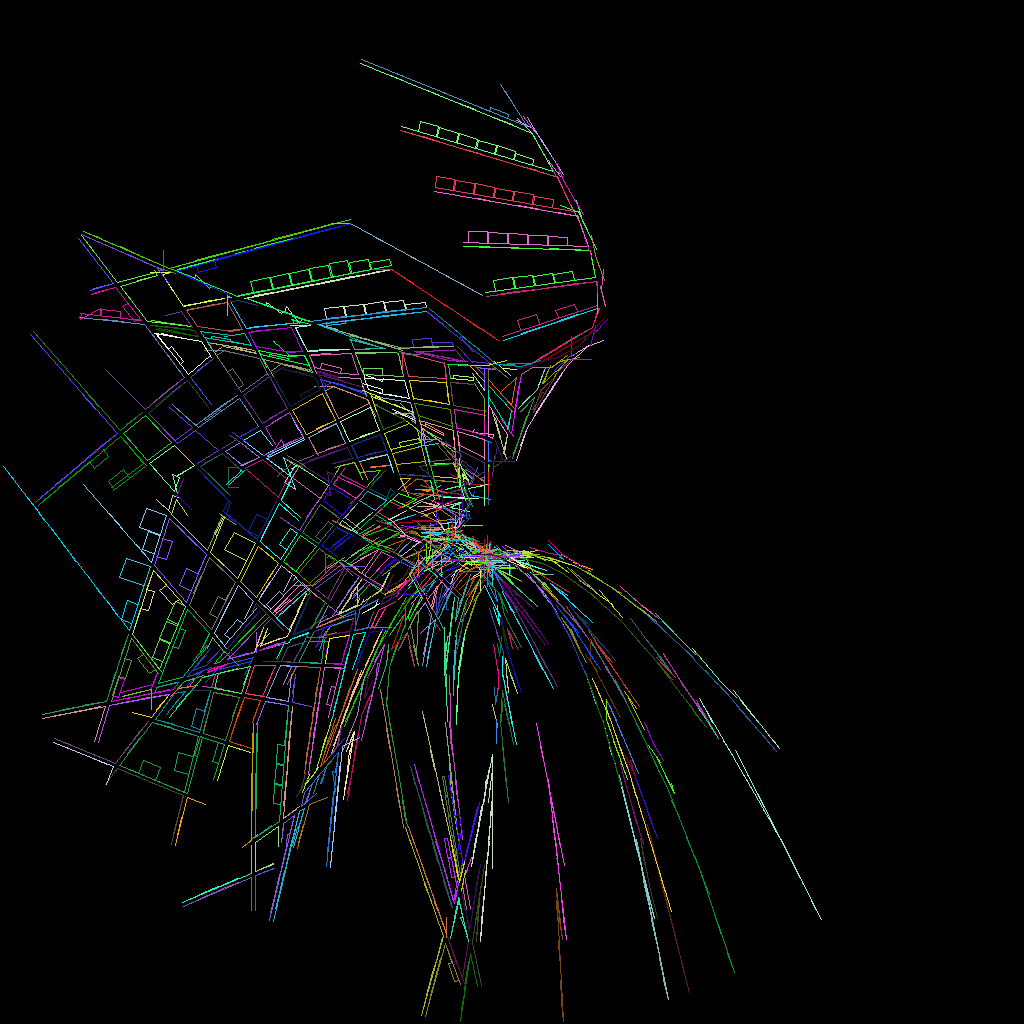
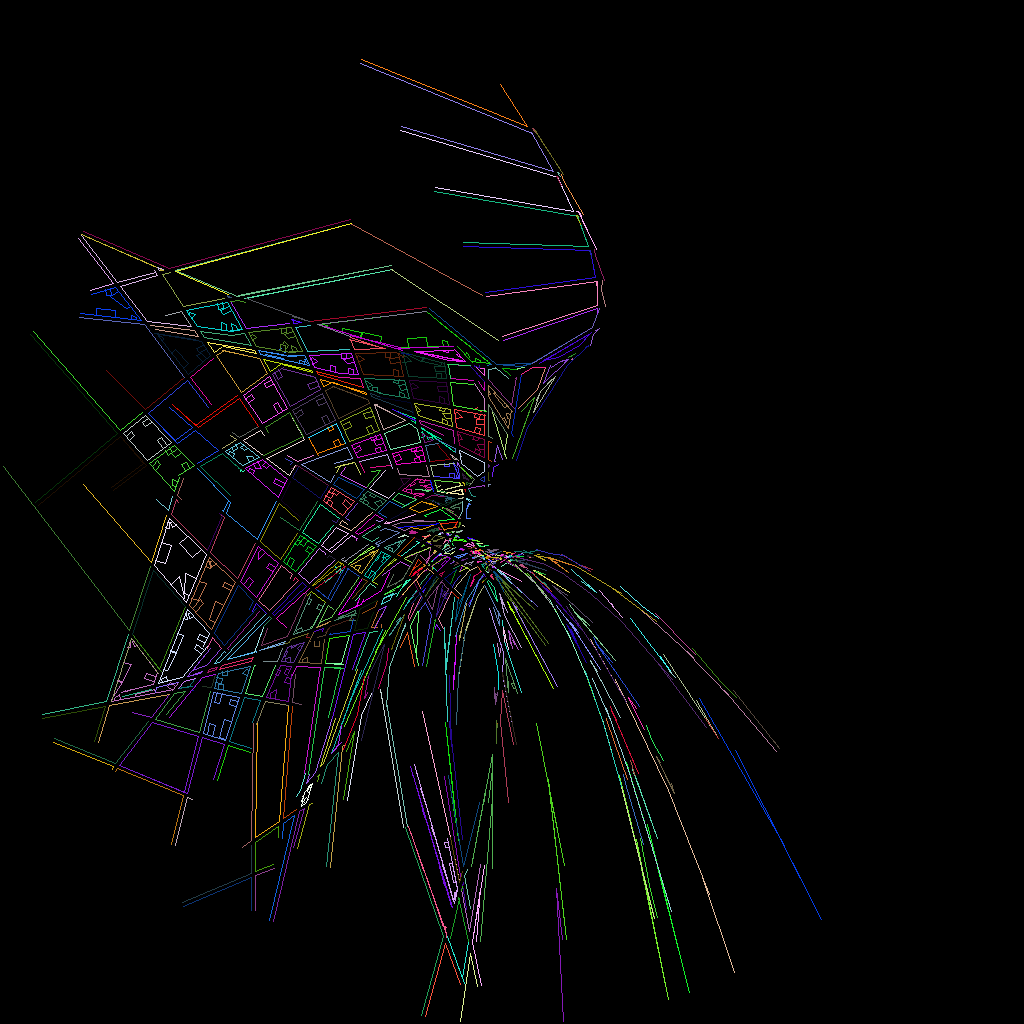
Lot population _slightly_ better

diff --git a/src/city_builder.js b/src/city_builder.js
@@ -153,93 +153,102 @@ const inside_lot = function(line, lot, edge_index) {
 exports.inside_lot = inside_lot;
 
 const add_building = function(lot_edges, edge_index, from, to) {
-  // let size = 20
-  const magic = 1000 // Far off distance for end of right angle line
+  try {
+    // let size = 20
+    const magic = 1000 // Far off distance for end of right angle line
 
-  let building = []
+    let building = []
 
-  // Attempt to draw the edge of a building as a right angle
-  // from the edge of the lot
+    // Attempt to draw the edge of a building as a right angle
+    // from the edge of the lot
 
-  let perps = right_angle_line(lot_edges[edge_index], magic, from)
-  console.log('right angle lines from lot edge:' + perps)
-  // Find out which of the two right angle lines
-  // is heading inside the lot?
-  let perp_idx = 0
-  let hits = inside_lot(perps[0], lot_edges, edge_index)
-  if( hits === false) {
-    console.log('line is outside lot')
-    perp_idx = 1
-    hits = inside_lot(perps[1], lot_edges, edge_index)
-  } else {
-    console.log('line is inside lot')
-  }
-  // building.push(perps[perp_idx])
-  let first_line = {geometry: {start: perps[perp_idx].geometry.start, end: hits[0]}}
-  console.log('first_line:' + JSON.stringify(first_line))
-  // // Shorten line so it fits inside lot
-  // building.push(first_line)
-  // console.log(first_line.geometry.start.x,
-  //             first_line.geometry.start.y,      
-  //             hits[0].x,
-  //             hits[0].y)
+    let perps = right_angle_line(lot_edges[edge_index], magic, from)
+    console.log('right angle lines from lot edge:' + perps)
+    // Find out which of the two right angle lines
+    // is heading inside the lot?
+    let perp_idx = 0
+    let hits = inside_lot(perps[0], lot_edges, edge_index)
+    if( hits === false) {
+      console.log('line is outside lot')
+      perp_idx = 1
+      hits = inside_lot(perps[1], lot_edges, edge_index)
+    } else {
+      console.log('line is inside lot')
+    }
+    // building.push(perps[perp_idx])
+    let first_line = {geometry: {start: perps[perp_idx].geometry.start, end: hits[0]}}
+    console.log('first_line:' + JSON.stringify(first_line))
+    // // Shorten line so it fits inside lot
+    // building.push(first_line)
+    // console.log(first_line.geometry.start.x,
+    //             first_line.geometry.start.y,      
+    //             hits[0].x,
+    //             hits[0].y)
+    
+    let length = distance_between(first_line.geometry.start.x,
+                                  first_line.geometry.start.y,      
+                                  first_line.geometry.end.x,
+                                  first_line.geometry.end.y) / 4
+
+    building.push(shorten_line(first_line, length))
+
+    // Get second right angle from lot edge
+
+    perps = right_angle_line(lot_edges[edge_index], magic, to)
   
-  let length = distance_between(first_line.geometry.start.x,
-                                first_line.geometry.start.y,      
-                                first_line.geometry.end.x,
-                                first_line.geometry.end.y) / 4
+    // Which one is inside lot?
+    perp_idx = 0
+    hits = inside_lot(perps[0], lot_edges, edge_index)
+    if( hits === false) {
+      perp_idx = 1
+      hits = inside_lot(perps[1], lot_edges, edge_index)
+    }
 
-  building.push(shorten_line(first_line, length))
+    let second_line = {geometry: {start: perps[perp_idx].geometry.start, end: hits[0]}}
 
-  // Get second right angle from lot edge
+    length = distance_between(second_line.geometry.start.x,
+      second_line.geometry.start.y,      
+      second_line.geometry.end.x,
+      second_line.geometry.end.y) / 4
 
-  perps = right_angle_line(lot_edges[edge_index], magic, to)
- 
-  // Which one is inside lot?
-  perp_idx = 0
-  hits = inside_lot(perps[0], lot_edges, edge_index)
-  if( hits === false) {
-    perp_idx = 1
-    hits = inside_lot(perps[1], lot_edges, edge_index)
+    building.push(shorten_line(second_line, length))
+
+    // Join them together
+
+    building.push({geometry: {start: building[0].geometry.end,
+                              end:   building[1].geometry.end}})  
+
+    return building
   }
-
-  let second_line = {geometry: {start: perps[perp_idx].geometry.start, end: hits[0]}}
-
-  length = distance_between(second_line.geometry.start.x,
-    second_line.geometry.start.y,      
-    second_line.geometry.end.x,
-    second_line.geometry.end.y) / 4
-
-  building.push(shorten_line(second_line, length))
-
-  // Join them together
-
-  building.push({geometry: {start: building[0].geometry.end,
-                            end:   building[1].geometry.end}})  
-
-  return building
+  catch(err) {
+    console.log(err + 'processing' + JSON.stringify(lot_edges))
+  } 
 }
 
 exports.add_building = add_building
 
-const add_buildings = function(lot, size) {
+const add_buildings = function(lot_edges, size) {
   let buildings = []
-  lot.edges.forEach((edge) => {
+
+  lot_edges.forEach((edge, i) => {
+
     const length = distance_between(edge.geometry.start.x,
-                                    edge.geometry.start.y,
-                                    edge.geometry.end.x,
-                                    edge.geometry.end.y)
-    let start = 0
+                                      edge.geometry.start.y,
+                                      edge.geometry.end.x,
+                                      edge.geometry.end.y)
+    let start = 10
     let end = size
     do {
-      const building = add_building(lot.edges, edge, start, end)
+      const building = add_building(lot_edges, i, start, end)
       if (!intersects(building, buildings)) {
         buildings = buildings.concat(building)
       }
       start = end + 1
-      end += size
+      end += 20
     } while(end <= length);
+
   })
+
   return buildings;
 }
 

diff --git a/test/city_builder.test.js b/test/city_builder.test.js
@@ -961,70 +961,71 @@ it('adds buildings to the lot', async() => {
   await render_square(buildings, 250, "assets/lot_with_buildings.png");
 })
 
-// it('adds many buildings to the lot', () => {
+it('adds many buildings to the lot', async() => {
 
-//   let lot = [
-//     {
-//       "id": 22,
-//       "street_id": 3,
-//       "geometry": {
-//         "start": {
-//           "x": 10,
-//           "y": 10
-//         },
-//         "end": {
-//           "x": 200,
-//           "y": 20
-//         }
-//       }
-//     },
-//     {
-//       "id": 20,
-//       "street_id": 2,
-//       "geometry": {
-//         "start": {
-//           "x": 200,
-//           "y": 20
-//         },
-//         "end": {
-//           "x": 200,
-//           "y": 200
-//         }
-//       }
-//     },
-//     {
-//       "id": 11,
-//       "street_id": 1,
-//       "geometry": {
-//         "start": {
-//           "x": 200,
-//           "y": 200
-//         },
-//         "end": {
-//           "x": 50,
-//           "y": 100
-//         }
-//       }
-//     },
-//     {
-//       "id": 12,
-//       "street_id": 1,
-//       "geometry": {
-//         "start": {
-//           "x": 50,
-//           "y": 100
-//         },
-//         "end": {
-//           "x": 10,
-//           "y": 10
-//         }
-//       }
-//     }
-//   ]
+  let lot = [
+    {
+      "id": 22,
+      "street_id": 3,
+      "geometry": {
+        "start": {
+          "x": 10,
+          "y": 10
+        },
+        "end": {
+          "x": 200,
+          "y": 20
+        }
+      }
+    },
+    {
+      "id": 20,
+      "street_id": 2,
+      "geometry": {
+        "start": {
+          "x": 200,
+          "y": 20
+        },
+        "end": {
+          "x": 200,
+          "y": 200
+        }
+      }
+    },
+    {
+      "id": 11,
+      "street_id": 1,
+      "geometry": {
+        "start": {
+          "x": 200,
+          "y": 200
+        },
+        "end": {
+          "x": 50,
+          "y": 100
+        }
+      }
+    },
+    {
+      "id": 12,
+      "street_id": 1,
+      "geometry": {
+        "start": {
+          "x": 50,
+          "y": 100
+        },
+        "end": {
+          "x": 10,
+          "y": 10
+        }
+      }
+    }
+  ]
   
-//   const buildings = add_buildings(lot)
+  const buildings = add_buildings(lot, 10)
+  await render_square(buildings, 250, "assets/lot_with_many_buildings.png");
 
-// })
+})
 
 it('checks to see if a shape overlaps with any shapes in a list of shapes', () => {
   const building = [

diff --git a/add_buildings.js b/add_buildings.js
@@ -16,11 +16,16 @@ city_builder.intersect_parallels();
 city_builder.split_streets();
 city_builder.add_lots();
 
-const building_size = 20;
+const building_size = 5;
 
 city_builder.lots.forEach(lot => {
-    buildings = add_buildings(lot, building_size)
-    lot.buildings = buildings
+    try {
+        buildings = add_buildings(lot.edges, building_size)
+        lot.buildings = buildings
+    }
+    catch (err){
+        console.log(err)
+    }
 })
 
 const hp = require('harry-plotter');

diff --git a/README.md b/README.md
@@ -74,15 +74,14 @@ of them on the map:
 
 ![Buildings](assets/buildings.png)
 
-Working on that :-). The test for adding the buildings can be run with:
+But some of the lots remain empty :-O Working on that :-). The test for adding the buildings can be run with:
 
 ```
-test -- -t 'adds buildings to the lot'
+npm test -- -t 'adds buildings to the lot'
 ```
 
-Currently it seems to only want to add buildings to one edge of the lot:
-
-![One edge of the lot](assets/building_with_lots.png)
+I've put some error handling around the call to `add_buildings` so I can test the lots where this fails and 
+see what it is about these `in the wild` lots that causes my code to fail :-)
 
 # Copyright
 
